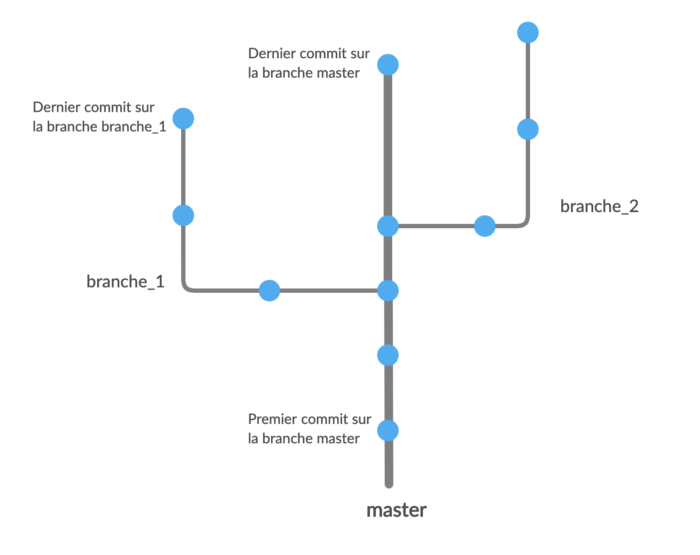
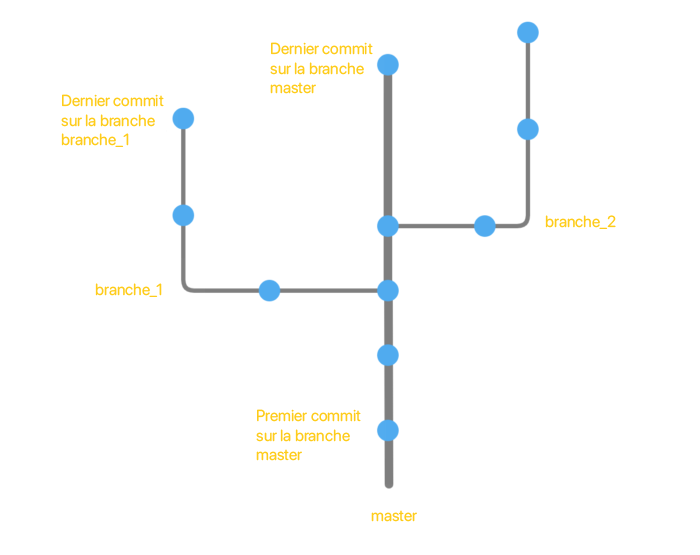
sdf

diff --git a/src/pages/posts/tech/20201023-git-pour-debutant.md b/src/pages/posts/tech/20201023-git-pour-debutant.md
@@ -74,7 +74,14 @@ git status
 
 Le résultat de la commande ci-dessus est le suivant :
 
-![](https://miro.medium.com/max/1400/1*ujlsa60JTnWk8Z8PpzBn0A.png)
+```
+On branch master
+No commits yet
+Untracked files:
+    (use "git add <file». to include in what will be committed)
+        article-l.txt
+nothing added to commit but untracked files present (use "git add" to track)
+```
 
 * La première ligne veut dire qu’on se trouve sur la branche principale dont le nom est **master**.
 
@@ -95,8 +102,14 @@ Puis on revérifie à nouveau l’état de notre dépôt avec la commande:
 ```
 git status
 ```
-
-![](https://miro.medium.com/max/1400/1*MN9L1sJtc7Pge3RsTCdGTQ.png)
+Résultat
+```
+On branch master
+No commits yet
+Changes to be committed:
+    (use "git rm - cached <file»." to unstage)
+        new file: article-l.txt
+```
 ### Git Commit:
 Le résultat de la commande est maintenant différent car le fichier est tracké par Git, mais il n’est pas commité, càd que la version de ce fichier n’est pas encore enregistrée dans notre dépôt, afin de l’enregistrer on fait un `commit` :
 
@@ -108,7 +121,7 @@ Maintenant on a bien enregistré une première version de notre article dans Git
 
 Git est conçu selon un modèle de branches, un repository Git contient au minimum une branche (**master**), mais dans la pratique on a besoin de plusieurs branches.
 
-![](https://miro.medium.com/max/1400/1*uiLZ-h0tlTazV92wFKOBxQ.png)
+<Image w="700" h="555" src={img3} t="git branches" solo="true" />
 
 Dans le schéma ci-dessus chaque point bleu représente un commit, la branche épaisse est la branche principale qui porte le nom **master** et contient 5 commits.
 
@@ -125,8 +138,15 @@ Tapez la commande suivante :
 ```
 git log
 ```
+Résultat:
+```
+commit 727ef82c26a75cba962757d1c9524a6f1030b825 (HEAD-> master)
+Author: akram mecheri <mecheri.akram@gmail.com>
+Date:
+Thu Oct 22 21:10:28 2020 +0200
 
-![](https://miro.medium.com/max/1400/1*aaxN81NYA7O_OnHhsXIq1g.png)
+    ajout de l'article 1
+```
 ### Git Tag:
 La commande `git log` permet d’afficher les derniers commits effectués, on remarque un long identifiant alphanumérique pour notre commit, cet identifiant est unique à un commit ( il permet d’identifier notre enregistrement, l’ID généré sur votre terminal est certainement différent du mien) par contre il n’est pas facile de mémoriser un tel identifiant par un humain, pour cette raison on peut utiliser les **tag** de Git (le mot tag veut dire étiquette).
 
@@ -139,7 +159,14 @@ Puis on tape la commande git log:
 ```
 git log
 ```
-![](https://miro.medium.com/max/1400/1*wuZeckIelDL60MWbONC76w.png)
+Résultat:
+```
+commit 727ef82c26a75cba962757d1c9524a6f1030b825 (HEAD -> master, tag: v1.0.0)
+Author: akram mecheri <mecheri.akram@gmail.com>
+Date: Thu Oct 22 21:10:28 2020 +0200
+
+    ajout de l'article
+```
 
 On remarque l’apparition du tag **v1.0.0** sur notre commit initial.
 
@@ -210,8 +237,13 @@ Maintenant on souhaite que le contenu de la branche **branche_1** soit récupér
 ```
 git merge branche_1
 ```
-
-![](https://miro.medium.com/max/1400/1*wyW4sRPVpL3ODvMukMzNZg.png)
+Résultat:
+```
+Merge made by the 'recursive' strategy.
+    article-2.txt | 1 +
+    1 file changed, 1 insertion(+)
+    create mode 100644 article-2.txt
+```
 
 On saisit la commande ls, et on retrouve le fichier **article-2.txt** qui était créé dans la branche **branch_1** :
 
